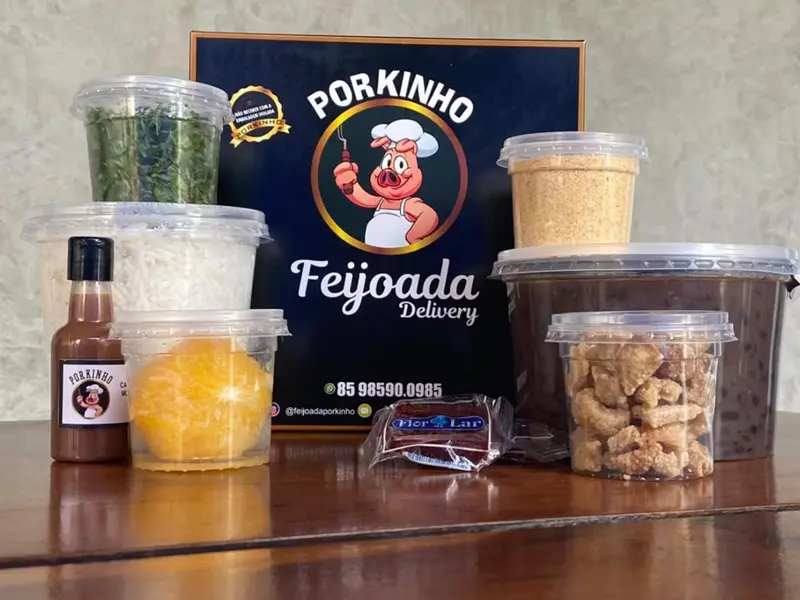
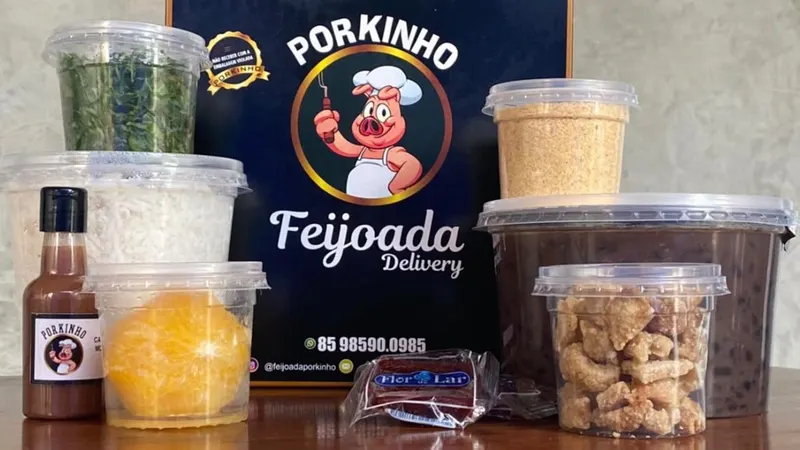
Apps compactos quando fechado, fotos 16:9 nos potes e porção maior
Da segunda análise de design do site no ar:

- Fora do horário, iFood e 99 Food viram uma linha compacta lado a lado
  ("iFood · Fechado agora"), sem o verbo nem a seta. O selo do status já
  diz quando abre, e o WhatsApp fica como o único botão cheio. O cartão
  inteiro do Kit Completa, com foto e preço, cabe na primeira tela do
  celular (375 px). No horário, nada muda.
- Fotos dos kits recortadas de novo a partir dos originais, em 16:9
  (800x450): menos mesa e parede, os potes ocupam a foto. Também baixam
  64 px cada cartão.
- Porção dos kits ("3 a 4 pessoas, 1,2 kg") passa de 13 para 15 px:
  é informação de compra.

diff --git a/public/index.html b/public/index.html
@@ -64,7 +64,7 @@ img{max-width:100%;height:auto;display:block}[hidden]{display:none!important}#bt
 .botao--99{background:#FFDD00;border-color:transparent;color:#1A1A1A}.botao--99 .botao__apoio{color:#3D3500}@media(prefers-color-scheme:light){.botao--99{border-color:#8F7A00}}
 .botao--whatsapp{background:#008069;border-color:#008069;color:#FFF}.botao--whatsapp .botao__icone,.botao--whatsapp .botao__apoio{color:#FFF}.botao--whatsapp .botao__icone{width:36px;height:36px;min-width:36px;border-radius:50%;background:#25D366}.botao--whatsapp .botao__icone svg{width:22px;height:22px}
 </style>
-<link rel="stylesheet" href="/css/style.css?v=18">
+<link rel="stylesheet" href="/css/style.css?v=19">
 <!-- Marca que ha JavaScript ANTES da primeira pintura. Sem isto, o botao
      de geolocalizacao so aparecia no DOMContentLoaded e empurrava a lista
      de pontos para baixo (layout shift). Liberado na CSP por hash, nao
@@ -94,13 +94,17 @@ img{max-width:100%;height:auto;display:block}[hidden]{display:none!important}#bt
 
   <!-- 1. Marketplaces: os canais preferenciais. -->
   <main id="comprar" class="secao">
+    <!-- Fechado, os dois apps viram uma linha compacta lado a lado (classe
+         apps--fechado, app.js): o selo do status ja diz quando abre, e a
+         foto e o preco do kit sobem para a primeira tela. -->
+    <div class="apps" id="apps">
     <a class="botao botao--primario botao--ifood" href="/go/ifood"
        rel="nofollow noopener noreferrer">
       <span class="botao__icone botao__icone--logo" aria-hidden="true">
         <svg class="logo-app logo-app--ifood" viewBox="0 0 1500 793"><path fill="currentColor" fill-rule="evenodd" d="M406 0L455 2L501 13L502 20L490 81L470 73L455 70L433 68L403 69L390 73L382 78L374 86L366 100L357 140L441 140L429 201L428 203L342 203L273 544L159 544L228 207L228 203L189 203L201 140L240 140L252 107L269 76L282 61L282 59L300 41L302 41L313 31L331 20L357 9L381 3ZM1386 6L1500 6L1408 455L1296 455L1308 398L1302 398L1287 418L1272 431L1249 445L1223 455L1199 460L1169 462L1151 459L1139 454L1126 445L1113 430L1106 417L1099 390L1099 364L1106 327L1117 295L1131 266L1149 237L1165 218L1165 216L1170 212L1170 210L1197 183L1233 157L1266 142L1291 136L1318 135L1359 139ZM88 8L203 8L185 101L70 102ZM603 133L644 135L682 145L712 162L733 184L741 199L746 214L748 225L748 257L741 292L726 330L700 371L667 406L639 427L597 448L575 455L549 460L501 461L472 456L440 444L419 430L402 412L392 394L386 371L385 347L391 309L401 279L414 252L430 227L441 215L441 213L449 206L449 204L475 180L495 166L521 152L548 142L580 135ZM963 133L1004 135L1024 139L1047 147L1064 156L1079 167L1098 190L1104 203L1109 221L1110 251L1102 294L1086 333L1060 373L1033 402L1031 402L1025 409L1002 426L961 447L918 459L902 461L863 461L830 455L801 444L776 427L764 414L754 398L746 372L745 346L749 317L759 284L774 252L790 227L808 207L808 205L830 184L855 166L881 152L908 142L940 135ZM63 140L177 140L177 145L114 455L0 455ZM349 544L356 545L362 559L377 583L389 599L395 604L395 606L403 613L403 615L431 641L462 663L496 681L535 695L569 702L606 705L638 704L664 701L696 695L735 684L778 667L806 653L837 634L861 616L875 602L800 544L1029 544L1029 547L979 787L977 786L973 775L973 771L966 755L966 751L959 735L959 731L952 715L947 697L945 692L942 692L912 716L878 737L840 756L804 770L770 780L730 788L694 792L649 793L616 791L588 787L538 773L499 755L457 727L446 716L444 716L413 684L383 641L370 616L360 591L352 563Z"/></svg>
       </span>
       <span class="botao__texto">
-        <span class="botao__rotulo">Pedir no iFood</span>
+        <span class="botao__rotulo"><span class="botao__verbo">Pedir no </span>iFood</span>
         <span class="botao__apoio" data-apoio>Entrega em casa · mínimo R$&nbsp;59,00</span>
       </span>
       <span class="botao__seta" aria-hidden="true">
@@ -114,13 +118,14 @@ img{max-width:100%;height:auto;display:block}[hidden]{display:none!important}#bt
         <svg class="logo-app logo-app--99" viewBox="74 128 352 250"><path fill="currentColor" d="m336.5 131.94c-26.428 0-49.864 13.069-64.467 33.217-9.3301 12.868-15.036 28.624-15.63 45.716l-0.0746 2.953c0 38.867 26.527 71.387 62.089 79.765l-44.431 69.233c-1.4402 2.2464 0.13947 5.2286 2.7661 5.2286h54.571c1.3301 0 2.5738-0.68593 3.3035-1.8223l68.789-107.2c8.4043-12.943 13.256-28.505 13.256-45.202v-2.953c-0.66985-17.137-6.4084-32.932-15.779-45.819-14.608-20.091-38.007-33.114-64.392-33.114zm0 49.034c16.179 0 29.299 13.38 29.325 29.9 2e-3 5.2954-1.3217 10.221-3.6399 14.508l-2.2382 3.4857c-5.3517 7.283-13.846 12.018-23.447 12.018-16.199 0-29.33-13.41-29.33-29.956 0.0311-16.572 13.148-29.956 29.33-29.956zm-173-49.033c26.385 0 49.787 13.021 64.397 33.113 9.3706 12.887 15.105 28.685 15.772 45.821v2.9502c0 16.698-4.8488 32.26-13.252 45.202l-68.789 107.2c-0.7299 1.1364-1.9703 1.8206-3.3014 1.8206h-54.573c-2.6275 0-4.2038-2.9785-2.7641-5.2249l44.428-69.234c-35.563-8.378-62.086-40.9-62.086-79.767l0.07392-2.9502c0.59235-17.092 6.301-32.852 15.629-45.72 14.605-20.149 38.038-33.214 64.467-33.214zm-2.4e-4 108.94c9.6014 0 18.098-4.733 23.448-12.016l2.238-3.4878c2.3175-4.2868 3.6431-9.2098 3.6409-14.505-0.028-16.519-13.146-29.903-29.327-29.903-16.181 0-29.298 13.383-29.329 29.955 0 16.545 13.131 29.956 29.329 29.956z"/></svg>
       </span>
       <span class="botao__texto">
-        <span class="botao__rotulo">Pedir no 99 Food</span>
+        <span class="botao__rotulo"><span class="botao__verbo">Pedir no </span>99 Food</span>
         <span class="botao__apoio" data-apoio>Entrega em casa, direto no app</span>
       </span>
       <span class="botao__seta" aria-hidden="true">
         <svg viewBox="0 0 24 24" fill="none" stroke="currentColor" stroke-width="2.5" stroke-linecap="round" stroke-linejoin="round"><path d="m9 18 6-6-6-6"/></svg>
       </span>
     </a>
+    </div>
 
     <!-- Pedido sem app (no horario) ou reserva (fora dele). Fechado, os
          botoes dos apps passam a secundarios e este fica como o unico
@@ -147,8 +152,8 @@ img{max-width:100%;height:auto;display:block}[hidden]{display:none!important}#bt
       <ul class="kits">
         <li class="kit">
           <picture>
-            <source srcset="/img/kit-completa.webp?v=3" type="image/webp">
-            <img class="kit__foto" src="/img/kit-completa.jpg?v=3" width="800" height="600"
+            <source srcset="/img/kit-completa.webp?v=4" type="image/webp">
+            <img class="kit__foto" src="/img/kit-completa.jpg?v=4" width="800" height="450"
                  alt="Kit Feijoada Completa na caixa da Porkinho: feijoada, torresmo, arroz, couve, farofa, laranja, molho apimentado e docinho"
                  decoding="async">
           </picture>
@@ -161,8 +166,8 @@ img{max-width:100%;height:auto;display:block}[hidden]{display:none!important}#bt
         </li>
         <li class="kit">
           <picture>
-            <source srcset="/img/kit-executiva.webp?v=3" type="image/webp">
-            <img class="kit__foto" src="/img/kit-executiva.jpg?v=3" width="800" height="600"
+            <source srcset="/img/kit-executiva.webp?v=4" type="image/webp">
+            <img class="kit__foto" src="/img/kit-executiva.jpg?v=4" width="800" height="450"
                  alt="Kit Feijoada Executiva na caixa da Porkinho: feijoada, arroz, torresmo, farofa e docinho"
                  loading="lazy" decoding="async">
           </picture>
@@ -736,7 +741,7 @@ img{max-width:100%;height:auto;display:block}[hidden]{display:none!important}#bt
                 "price": "69.90",
                 "priceCurrency": "BRL"
               },
-              "image": "https://feijoadaporkinho.com.br/img/kit-executiva.jpg?v=3"
+              "image": "https://feijoadaporkinho.com.br/img/kit-executiva.jpg?v=4"
             },
             {
               "@type": "MenuItem",
@@ -747,7 +752,7 @@ img{max-width:100%;height:auto;display:block}[hidden]{display:none!important}#bt
                 "price": "119.90",
                 "priceCurrency": "BRL"
               },
-              "image": "https://feijoadaporkinho.com.br/img/kit-completa.jpg?v=3"
+              "image": "https://feijoadaporkinho.com.br/img/kit-completa.jpg?v=4"
             }
           ]
         },
@@ -895,7 +900,7 @@ img{max-width:100%;height:auto;display:block}[hidden]{display:none!important}#bt
 }
 </script>
 
-<script src="/js/app.js?v=11" defer></script>
+<script src="/js/app.js?v=12" defer></script>
 
 <!-- Cloudflare Web Analytics: sem cookie, agregado. Token no README. -->
 <script defer src="https://static.cloudflareinsights.com/beacon.min.js" data-cf-beacon='{"token": "8e8b0d44a40e4c05b79d54e70756893f"}'></script>

diff --git a/public/js/app.js b/public/js/app.js
@@ -209,7 +209,9 @@
     return {
       aberto: false,
       status: 'Abre ' + dia + ' às ' + hora,
-      apoio: 'Fechado · abre ' + dia + ' às ' + hora,
+      /* Curto: fechado, os botoes ficam lado a lado, e o selo do status
+         logo acima ja diz o dia e a hora. */
+      apoio: 'Fechado agora',
       retirada: 'Fechado agora · os food trucks abrem ' + dia + ' às ' + hora
     };
   }
@@ -237,7 +239,9 @@
     /* Botoes dos apps: fechado, viram secundarios (sem sombra nem seta: o
        dourado e para o que da para pedir agora) e o apoio diz quando abre;
        aberto, volta ao texto do HTML, guardado no primeiro uso. */
-    $$('#comprar > .botao--primario').forEach(function (botao) {
+    var apps = $('#apps');
+    if (apps) { apps.classList.toggle('apps--fechado', !s.aberto); }
+    $$('#apps > .botao--primario').forEach(function (botao) {
       botao.classList.toggle('botao--fechado', !s.aberto);
       var el = $('[data-apoio]', botao);
       if (!el) { return; }
@@ -440,7 +444,7 @@
    * ------------------------------------------------------------------ */
   function prepararBarra() {
     var barra = $('#barra-pedido');
-    var topo = $$('#comprar > .botao--primario');
+    var topo = $$('#apps > .botao--primario');
     if (!barra || !topo.length || !('IntersectionObserver' in window)) { return; }
 
     var naTela = [];

diff --git a/public/css/style.css b/public/css/style.css
@@ -346,6 +346,24 @@ a { color: var(--primaria-texto); }
 .botao__seta { flex: 0 0 auto; width: 18px; height: 18px; opacity: .55; }
 .botao__seta svg { width: 18px; height: 18px; display: block; }
 
+/* Os dois apps. Abertos, empilhados como os outros botoes. Fechados,
+   uma linha compacta lado a lado: so a marca e "Fechado agora" (o selo do
+   status acima diz quando abre), e o WhatsApp fica como unico botao cheio. */
+.apps { margin-bottom: 12px; }
+.apps--fechado {
+  display: grid;
+  grid-template-columns: 1fr 1fr;
+  gap: 10px;
+}
+.apps--fechado > .botao {
+  margin: 0;
+  min-height: 56px;
+  padding: 10px 12px;
+  gap: 10px;
+}
+.apps--fechado .botao__verbo,
+.apps--fechado .botao__seta { display: none; }
+
 /* Marketplaces: fundo solido de destaque, tinta escura por cima. */
 .botao--primario {
   background: var(--primaria);
@@ -610,7 +628,7 @@ html.js #btn-geo { display: flex; }
 .kit__foto {
   width: 100%;
   height: auto;
-  aspect-ratio: 4 / 3;
+  aspect-ratio: 16 / 9;
   object-fit: cover;
   background: var(--superficie-alta);
 }
@@ -624,9 +642,10 @@ html.js #btn-geo { display: flex; }
   line-height: 1.25;
 }
 
+/* Porcao em 15px: quantas pessoas e quantos quilos decidem a compra. */
 .kit__porcao {
   margin: 2px 0 0;
-  font-size: var(--fs-meta);
+  font-size: var(--fs-apoio);
   color: var(--texto-2);
 }
 

diff --git a/public/404.html b/public/404.html
@@ -8,7 +8,7 @@
 <meta name="theme-color" content="#262624" media="(prefers-color-scheme: dark)">
 <meta name="theme-color" content="#E0E0DD" media="(prefers-color-scheme: light)">
 <link rel="icon" href="/favicon.ico?v=2" sizes="32x32">
-<link rel="stylesheet" href="/css/style.css?v=18">
+<link rel="stylesheet" href="/css/style.css?v=19">
 </head>
 <body>
 <div class="pagina">

diff --git a/public/50x.html b/public/50x.html
@@ -8,7 +8,7 @@
 <meta name="theme-color" content="#262624" media="(prefers-color-scheme: dark)">
 <meta name="theme-color" content="#E0E0DD" media="(prefers-color-scheme: light)">
 <link rel="icon" href="/favicon.ico?v=2" sizes="32x32">
-<link rel="stylesheet" href="/css/style.css?v=18">
+<link rel="stylesheet" href="/css/style.css?v=19">
 </head>
 <body>
 <div class="pagina">

diff --git a/public/politica-de-privacidade.html b/public/politica-de-privacidade.html
@@ -19,7 +19,7 @@
 <link rel="apple-touch-icon" href="/img/apple-touch-icon.png?v=2">
 <link rel="manifest" href="/site.webmanifest">
 <link rel="preload" href="/fonts/outfit-latin-var.woff2?v=1" as="font" type="font/woff2" crossorigin>
-<link rel="stylesheet" href="/css/style.css?v=18">
+<link rel="stylesheet" href="/css/style.css?v=19">
 </head>
 <body>
 <div class="pagina">

diff --git a/README.md b/README.md
@@ -458,8 +458,8 @@ acompanha.
 
 | Arquivo | Tamanho | Situação |
 |---|---|---|
-| `img/kit-completa.*` | 800×600 (4:3) | Pronto — foto real do kit na caixa da Porkinho. **É a foto que mais vende**: primeiro cartão da página, em largura cheia. |
-| `img/kit-executiva.*` | 800×600 (4:3) | Pronto — foto real do kit. |
+| `img/kit-completa.*` | 800×450 (16:9) | Pronto — foto real do kit, recortada nos potes (menos mesa e parede). **É a foto que mais vende**: primeiro cartão da página, em largura cheia. Uma foto da feijoada servida no prato venderia mais. |
+| `img/kit-executiva.*` | 800×450 (16:9) | Pronto — foto real do kit, recortada nos potes. |
 | `img/og-image.jpg` | 1200×630 | Pronto — recorte da foto do Kit Completa: é o que aparece quando o link é colado no WhatsApp. |
 | `img/logo.webp` / `.png` | 192×192 | Pronto — logo oficial, com transparência. |
 | `img/icon-192.png`, `icon-512.png`, `icon-maskable-512.png`, `apple-touch-icon.png`, `../favicon.ico` | — | Prontos, gerados da logo oficial. |
